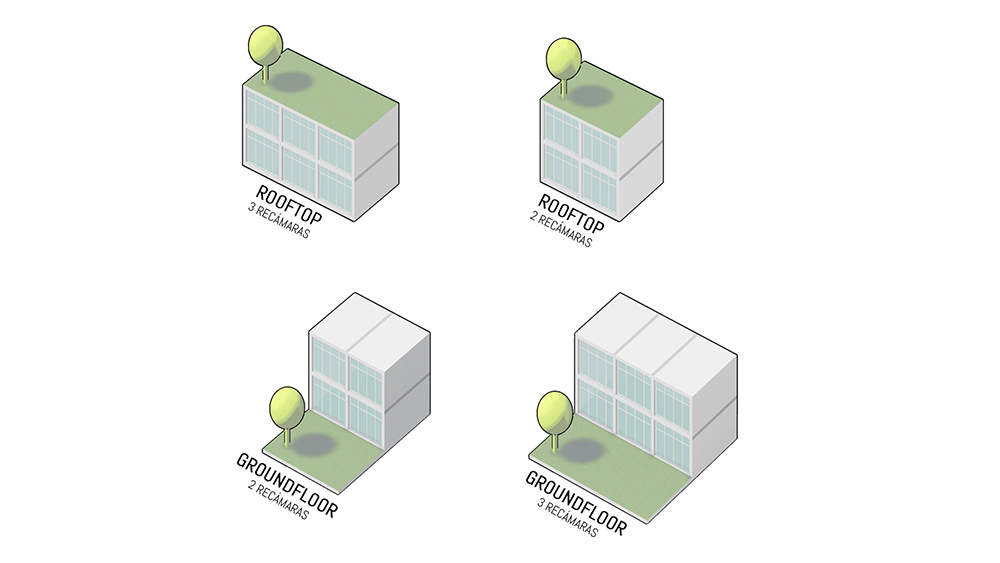
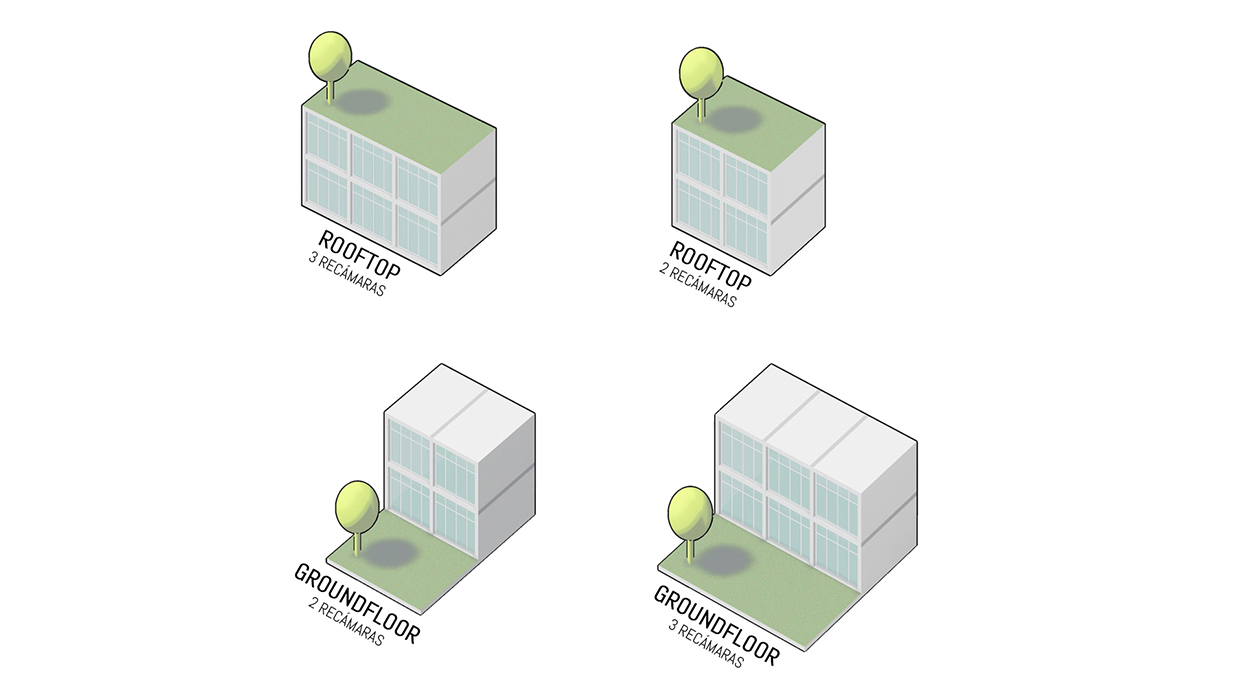
1
1

diff --git a/colmena-concept.html b/colmena-concept.html
@@ -208,63 +208,63 @@ data-block-type="8" data-block-json='{"methodOption":"transient","existingGaller
 data-click-through-url=""><IMG class="thumb-image" 
 data-src="./web/obispado/1.jpg" 
 data-type="image" data-load="false" 
-data-image-dimensions="1000x563" data-image="./web/obispado/1.jpg">                                           
+data-image-dimensions="1244x700" data-image="./web/obispado/1.jpg">                                           
 <DIV class="color-overlay"></DIV></DIV>
 
 <DIV class="slide content-fit" data-type="image" 
 data-click-through-url=""><IMG class="thumb-image" 
 data-src="./web/obispado/3.jpg" 
 data-type="image" data-load="false" 
-data-image-dimensions="1000x563" data-image="./web/obispado/3.jpg">                                           
+data-image-dimensions="1244x700" data-image="./web/obispado/3.jpg">                                           
 <DIV class="color-overlay"></DIV></DIV>
 
 <DIV class="slide content-fit" data-type="image" 
 data-click-through-url=""><IMG class="thumb-image" 
 data-src="./web/obispado/3c.jpg" 
 data-type="image" data-load="false" 
-data-image-dimensions="1000x563" data-image="./web/obispado/3c.jpg">                                           
+data-image-dimensions="1244x700" data-image="./web/obispado/3c.jpg">                                           
 <DIV class="color-overlay"></DIV></DIV>
 
 <DIV class="slide content-fit" data-type="image" 
 data-click-through-url=""><IMG class="thumb-image" 
 data-src="./web/obispado/3e.jpg" 
 data-type="image" data-load="false" 
-data-image-dimensions="1000x563" data-image="./web/obispado/3e.jpg">                                           
+data-image-dimensions="1244x700" data-image="./web/obispado/3e.jpg">                                           
 <DIV class="color-overlay"></DIV></DIV>
 
 <DIV class="slide content-fit" data-type="image" 
 data-click-through-url=""><IMG class="thumb-image" 
 data-src="./web/obispado/6.jpg" 
 data-type="image" data-load="false" 
-data-image-dimensions="1000x563" data-image="./web/obispado/6.jpg">                                           
+data-image-dimensions="1244x700" data-image="./web/obispado/6.jpg">                                           
 <DIV class="color-overlay"></DIV></DIV>
 
 <DIV class="slide content-fit" data-type="image" 
 data-click-through-url=""><IMG class="thumb-image" 
 data-src="./web/obispado/6b.jpg" 
 data-type="image" data-load="false" 
-data-image-dimensions="1000x563" data-image="./web/obispado/6b.jpg">                                           
+data-image-dimensions="1244x700" data-image="./web/obispado/6b.jpg">                                           
 <DIV class="color-overlay"></DIV></DIV>
 
 <DIV class="slide content-fit" data-type="image" 
 data-click-through-url=""><IMG class="thumb-image" 
 data-src="./web/obispado/7.jpg" 
 data-type="image" data-load="false" 
-data-image-dimensions="1000x563" data-image="./web/obispado/7.jpg">                                           
+data-image-dimensions="1244x700" data-image="./web/obispado/7.jpg">                                           
 <DIV class="color-overlay"></DIV></DIV>
 
 <DIV class="slide content-fit" data-type="image" 
 data-click-through-url=""><IMG class="thumb-image" 
 data-src="./web/obispado/8.jpg" 
 data-type="image" data-load="false" 
-data-image-dimensions="1000x563" data-image="./web/obispado/8.jpg">                                           
+data-image-dimensions="1244x700" data-image="./web/obispado/8.jpg">                                           
 <DIV class="color-overlay"></DIV></DIV>
 
 <DIV class="slide content-fit" data-type="image" 
 data-click-through-url=""><IMG class="thumb-image" 
 data-src="./web/obispado/0.jpg" 
 data-type="image" data-load="false" 
-data-image-dimensions="1000x563" data-image="./web/obispado/0.jpg">                                           
+data-image-dimensions="1244x700" data-image="./web/obispado/0.jpg">                                           
 <DIV class="color-overlay"></DIV></DIV>
 
 

diff --git a/newInside.html b/newInside.html
@@ -210,56 +210,56 @@ data-block-type="8" data-block-json='{"methodOption":"transient","existingGaller
 data-click-through-url=""><IMG class="thumb-image" 
 data-src="./web/obispado/renderFachada.jpg" 
 data-type="image" data-load="false" 
-data-image-dimensions="1000x563" data-image="./web/obispado/renderFachada.jpg">                                           
+data-image-dimensions="1244x700" data-image="./web/obispado/renderFachada.jpg">                                           
 <DIV class="color-overlay"></DIV></DIV>
 
 <DIV class="slide content-fit" data-type="image" 
 data-click-through-url=""><IMG class="thumb-image" 
 data-src="./web/obispado/renderSocialGrande.jpg" 
 data-type="image" data-load="false" 
-data-image-dimensions="1000x563" data-image="./web/obispado/renderSocialGrande.jpg">                                           
+data-image-dimensions="1244x700" data-image="./web/obispado/renderSocialGrande.jpg">                                           
 <DIV class="color-overlay"></DIV></DIV>
 
 <DIV class="slide content-fit" data-type="image" 
 data-click-through-url=""><IMG class="thumb-image" 
 data-src="./web/obispado/renderTerrazaFrontal.jpg" 
 data-type="image" data-load="false" 
-data-image-dimensions="1000x563" data-image="./web/obispado/renderTerrazaFrontal.jpg">                                           
+data-image-dimensions="1244x700" data-image="./web/obispado/renderTerrazaFrontal.jpg">                                           
 <DIV class="color-overlay"></DIV></DIV>
 
 <DIV class="slide content-fit" data-type="image" 
 data-click-through-url=""><IMG class="thumb-image" 
 data-src="./web/obispado/renderRecamaraPrincipal.jpg" 
 data-type="image" data-load="false" 
-data-image-dimensions="1000x563" data-image="./web/obispado/renderRecamaraPrincipal.jpg">                                           
+data-image-dimensions="1244x700" data-image="./web/obispado/renderRecamaraPrincipal.jpg">                                           
 <DIV class="color-overlay"></DIV></DIV>
 
 <DIV class="slide content-fit" data-type="image" 
 data-click-through-url=""><IMG class="thumb-image" 
 data-src="./web/obispado/renderTerrazaAzotea.jpg" 
 data-type="image" data-load="false" 
-data-image-dimensions="1000x563" data-image="./web/obispado/renderTerrazaAzotea.jpg">                                           
+data-image-dimensions="1244x700" data-image="./web/obispado/renderTerrazaAzotea.jpg">                                           
 <DIV class="color-overlay"></DIV></DIV>
 
 <DIV class="slide content-fit" data-type="image" 
 data-click-through-url=""><IMG class="thumb-image" 
 data-src="./web/obispado/renderSocialMediano.jpg" 
 data-type="image" data-load="false" 
-data-image-dimensions="1000x563" data-image="./web/obispado/renderSocialMediano2.jpg">                                           
+data-image-dimensions="1244x700" data-image="./web/obispado/renderSocialMediano2.jpg">                                           
 <DIV class="color-overlay"></DIV></DIV>
 
 <DIV class="slide content-fit" data-type="image" 
 data-click-through-url=""><IMG class="thumb-image" 
 data-src="./web/obispado/renderRecamaraSecundaria.jpg" 
 data-type="image" data-load="false" 
-data-image-dimensions="1000x563" data-image="./web/obispado/renderRecamaraSecundaria.jpg">                                           
+data-image-dimensions="1244x700" data-image="./web/obispado/renderRecamaraSecundaria.jpg">                                           
 <DIV class="color-overlay"></DIV></DIV>
 
 <DIV class="slide content-fit" data-type="image" 
 data-click-through-url=""><IMG class="thumb-image" 
 data-src="./web/obispado/renderJardin.jpg" 
 data-type="image" data-load="false" 
-data-image-dimensions="1000x563" data-image="./web/obispado/renderJardin.jpg">                                           
+data-image-dimensions="1244x700" data-image="./web/obispado/renderJardin.jpg">                                           
 <DIV class="color-overlay"></DIV></DIV>
 
 
